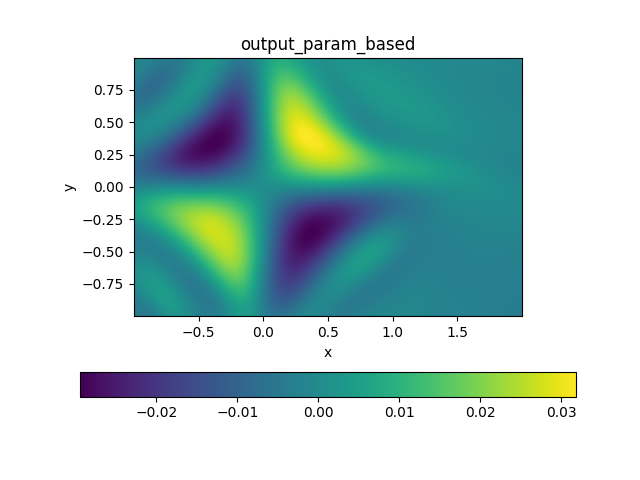
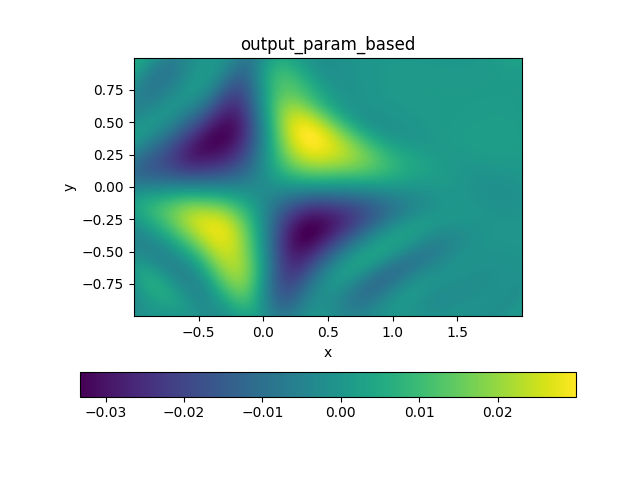
added saving the best model state to trainer to reduce randomness of final loss

diff --git a/project8/neural_network/trainer.py b/project8/neural_network/trainer.py
@@ -1,5 +1,6 @@
 from project8.neural_network import utils
 from project8.neural_network.models import NN
+from copy import deepcopy
 import torch
 
 
@@ -26,6 +27,9 @@ class trainer:
         self.loss_weights = params['loss_weights']
         self.device = params['device']
         self.loss_history: list[float] = []
+        self.best_state = deepcopy(self.model.state_dict())
+        self.best_loss = float('inf')
+        self.best_epoch = 0
         self.timer = utils.Timer()
 
     def eval_loss_fn(self, i: int) -> torch.Tensor:
@@ -42,6 +46,10 @@ class trainer:
         self.optimizer.zero_grad()
         loss = self.loss()
         loss.backward()  # type: ignore
+        if loss.item() < self.best_loss:
+            self.best_epoch = len(self.loss_history)
+            self.best_loss = loss.item()
+            self.best_state = deepcopy(self.model.state_dict())
         self.loss_history.append(loss.item())
         self.optimizer.step()
 
@@ -51,6 +59,10 @@ class trainer:
             self.step()
             if (epoch % 100 == 0) and self.verbose:
                 print(f'Epoch: {epoch}, '
-                      f'Loss: {self.loss_history[-1]:.4f}, '
+                      f'Loss: {self.loss_history[-1]:.6f}, '
                       f'Time: {utils.format_time(self.timer.elapsed())}')
+        self.model.load_state_dict(self.best_state)
+        if self.verbose:
+            print(f'Best loss: {self.best_loss:.6f}'
+                  f' at epoch {self.best_epoch}')
         self.timer.stop()

diff --git a/project8/neural_network/implementations/param_based.py b/project8/neural_network/implementations/param_based.py
@@ -6,12 +6,12 @@ from project8.neural_network.implementations import param_dicts
 
 def main() -> None:
     hyperparams = param_dicts.drm_2d_laplacian()
-    coord_space = utils.ParameterSpace.from_rand_data(
-        hyperparams['loss_fn_data'][0])
     model = models.NN.from_param_dict(hyperparams)
     trnr = trainer.trainer(model, hyperparams, verbose=True)
     trnr.train()
     # plot output
+    coord_space = utils.ParameterSpace.from_rand_data(
+        hyperparams['loss_fn_data'][0])
     if hyperparams['n_in'] == 2 and hyperparams['n_out'] == 1:
         grid = coord_space.fgrid(200)
         output = model(grid)
